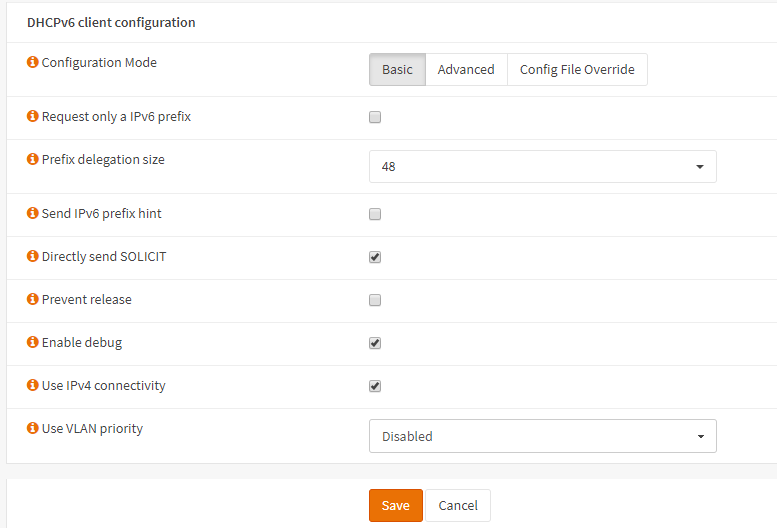
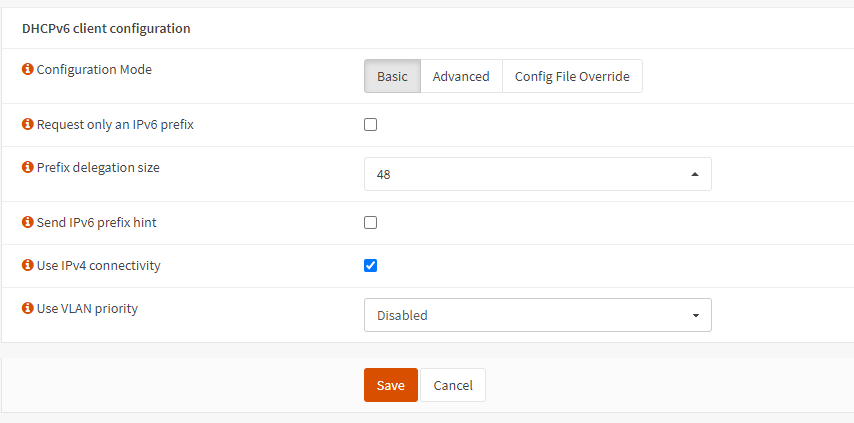
Update IPv6_ZenUK.rst
Remove directly send solicit option.

diff --git a/source/manual/how-tos/IPv6_ZenUK.rst b/source/manual/how-tos/IPv6_ZenUK.rst
@@ -37,8 +37,7 @@ interface shown below.
 	:width: 100%
 
 As stated before, Zen provide a /48 prefix, so select the prefix size
-accordingly. We directly send the solicit as in this case we do not wish
-to wait for an RA from the Zen gateway.
+accordingly. 
 
 The only other requirement in this section is to select ‘Use IPv4
 connectivity’, this is because the IPv6 traffic is routed over the PPPoE
